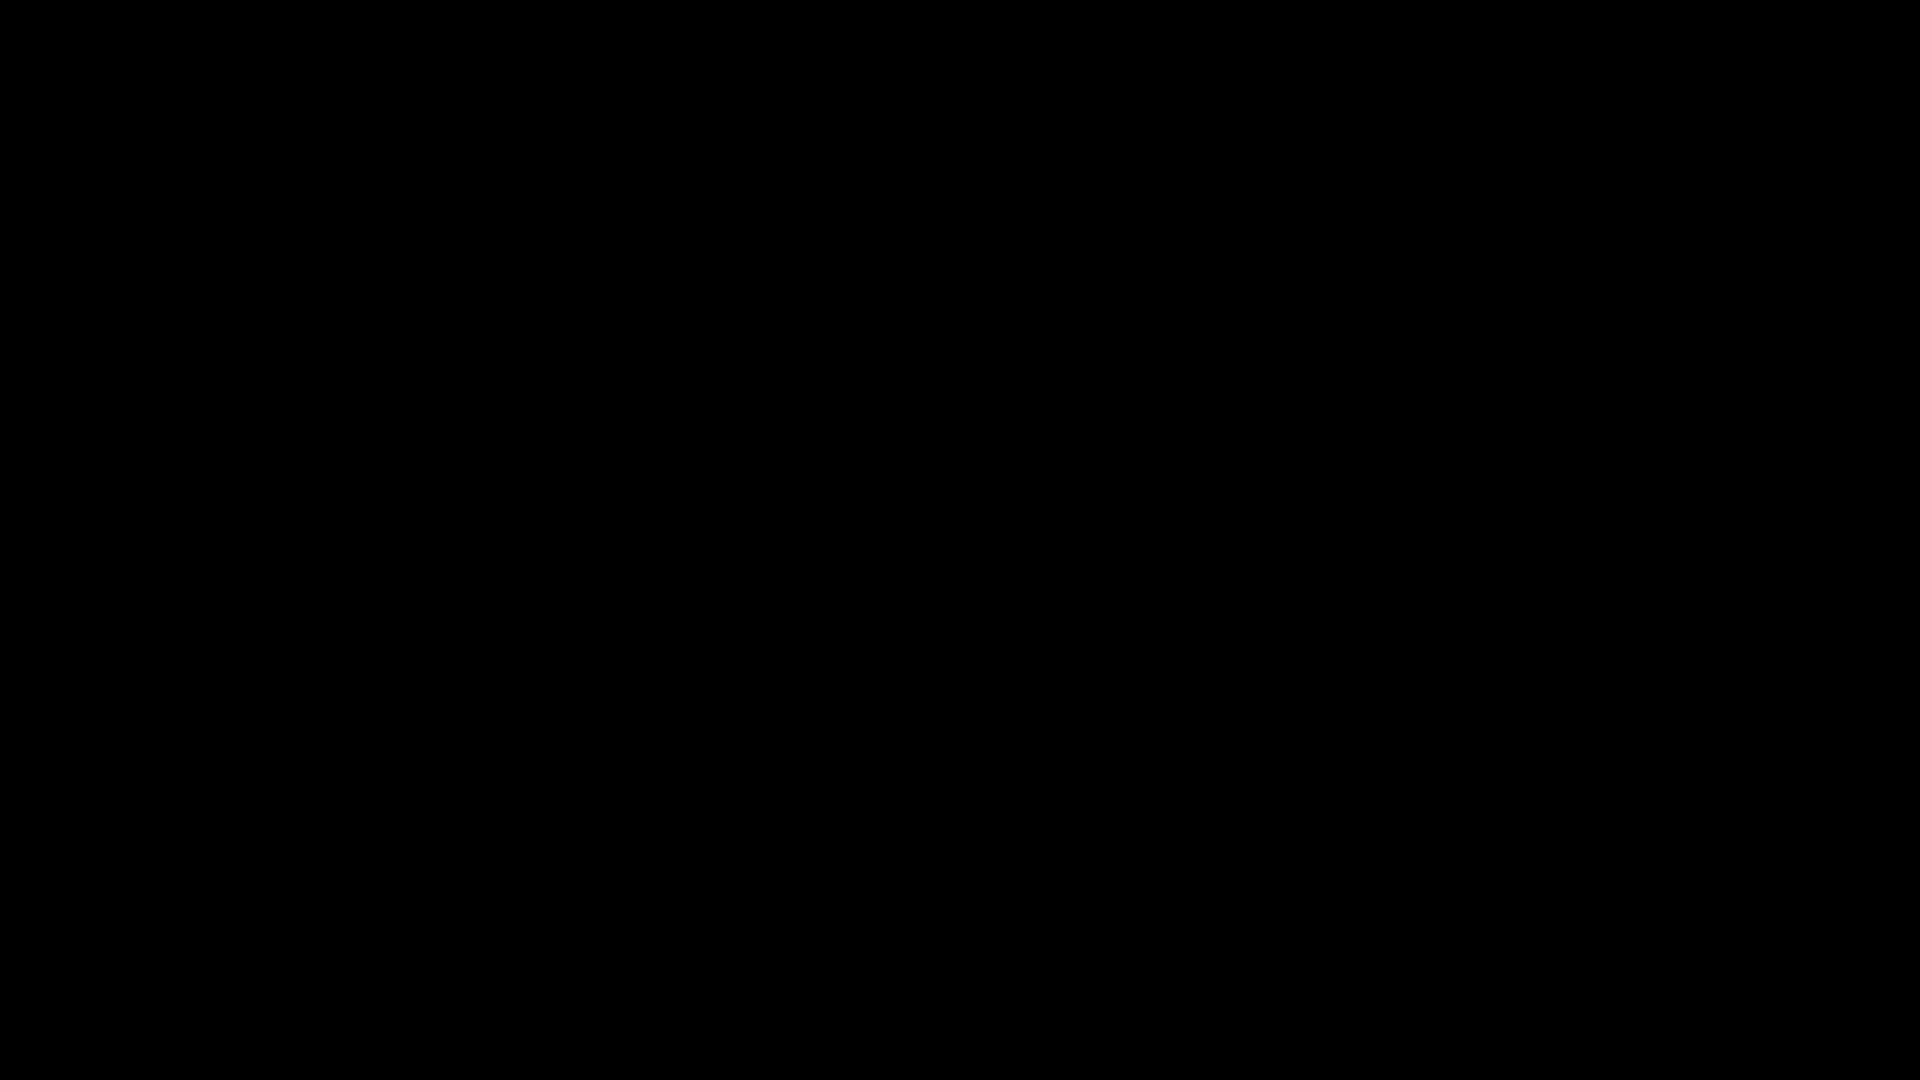
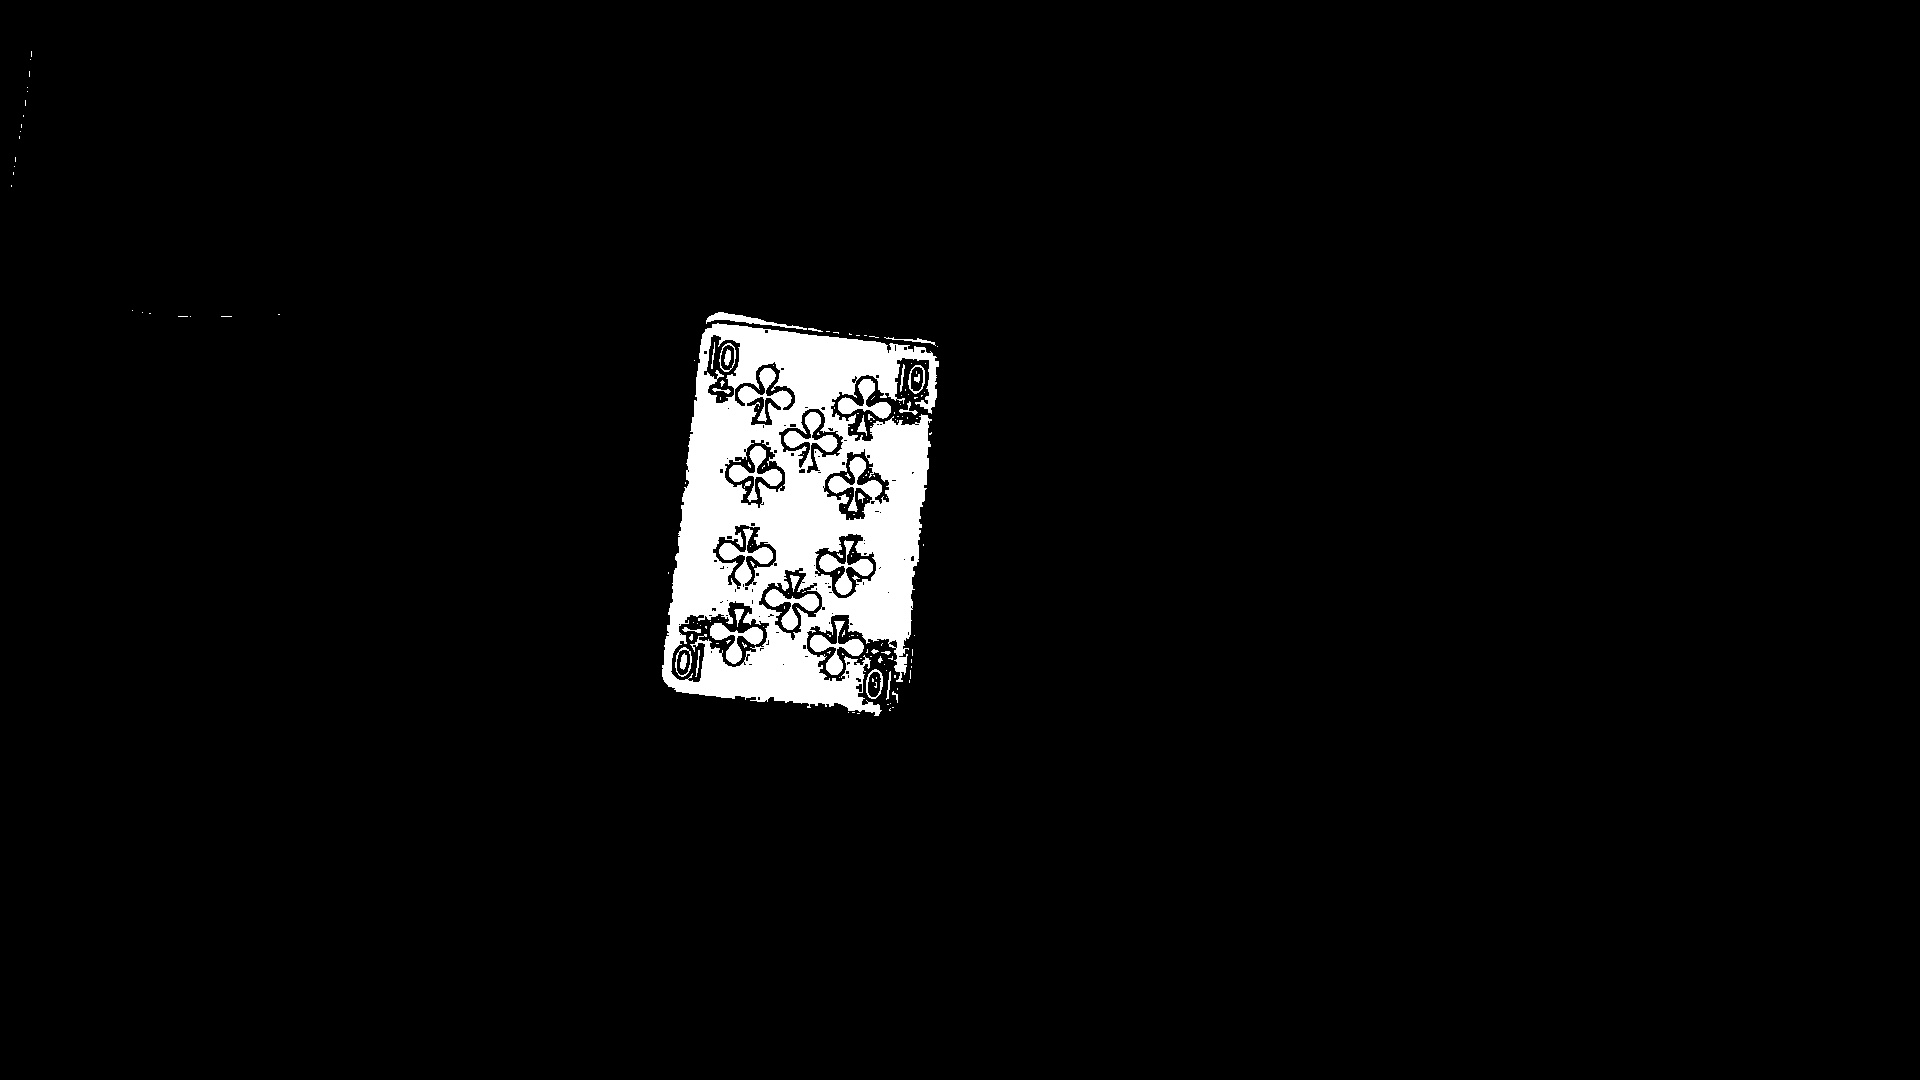
Ajout du k plus proche

Changed region(s): [[0.3438, 0.275, 0.5, 0.6722]]

diff --git a/src/camera/Image.java b/src/camera/Image.java
@@ -11,31 +11,43 @@ public class Image {
 	protected int width;
 	protected int height;
 	private IplImage rgbImage;
-	private ByteBuffer byteBuffer;
+	private ByteBuffer rgbByteBuffer;
 	
 	public Image(IplImage image){
 		
-		this.width = image.width();
-		this.height = image.height();
-		this.rgbImage = image;
-		this.byteBuffer = rgbImage.getByteBuffer();
+		width = image.width();
+		height = image.height();
+		rgbImage = image;
+		rgbByteBuffer = rgbImage.getByteBuffer();
+		
 	}
 	
 	public void setRgbByte(int index, byte byt){
 		
-		byteBuffer.put(index, byt);
+		rgbByteBuffer.put(index, byt);
 	}
 	
 	public ByteBuffer getRgbByteBuffer(){
 		
-		return byteBuffer;
+		return rgbByteBuffer;
 		
 	}
+	public int[] getRgbByte(int i, int j){
+		
+		int[] res = new int[3];
+		for(int k = 0; k <2; k++){
+			res[k] = (rgbByteBuffer.get(3*i + rgbImage.widthStep()*j+k) + 255) % 255;
+		}
+		return res;
+		
+	}
+
 
 	public IplImage getRgbImage() {
 		
 		return rgbImage;
 	}
+
 	
 	public int getWidth(){
 		
@@ -52,6 +64,79 @@ public class Image {
             cvSaveImage(fileName, rgbImage);
 		 }
 	}
+	
+	public int[] voisin(int i, int j, int[] pixel){ // retourne le pixel voisin de (i,j)
+		
+		int[] res = new int[3];
+		int distance = 0 , distanceMin = Integer.MAX_VALUE;
+		for(int n = Math.max(0, i-2); n <= Math.min(width-1, i+2); n++){
+			for(int p = Math.max(0, j-2); p <= Math.min(height-1,  j+2); p++){
+				int[] rgbByte = getRgbByte(n, p);
+				distance = 0;
+				for (int k = 0; k < 2; k ++){
+					distance = distance + Math.abs(rgbByte[k] - pixel[k]);
+				}
+				if (distance < distanceMin){
+					distanceMin = distance;
+					res = rgbByte;
+				}
+			}
+		}
+		
+		return res;
+	}
+	
+public BinaryImage difference(Image image){
+		
+		
+		int[][] diff = new int[height][width];
+		int[] voisin , pixel;
+		int distance = 0;
+		for (int i = 0 ; i< width; i++){
+			for(int j = 0; j < height; j++){
+				distance = 0;
+				pixel = getRgbByte(i,j);
+				voisin = image.voisin(i, j, pixel);
+				for (int k = 0; k < 2; k ++){
+					distance = distance + Math.abs(voisin[k] - pixel[k]);	
+				}	
+				
+				if (distance > 40)
+					diff[j][i] = 1;
+				else
+					diff[j][i] = 0 ;
+					}
+				}
+			
+		
+		BinaryImage bin = new BinaryImage(diff);
+		return bin ;
+		
+		
+	}
 
-
+public BinaryImage difference2(Image image) {
+	int[][] diff = new int[height][width];
+	int[] pixel2 , pixel;
+	int distance = 0;
+	for (int i = 0 ; i< width; i++){
+		for(int j = 0; j < height; j++){
+			distance = 0;
+			pixel = getRgbByte(i,j);
+			pixel2 = image.getRgbByte(i, j);
+			for (int k = 0; k < 2; k ++){
+				distance = distance + Math.abs(pixel2[k] - pixel[k]);	
+			}	
+			
+			if (distance > 40)
+				diff[j][i] = 1;
+			else
+				diff[j][i] = 0 ;
+				}
+			}
+		
+	
+	BinaryImage bin = new BinaryImage(diff);
+	return bin ;
+}
 }

diff --git a/src/camera/GrayImage.java b/src/camera/GrayImage.java
@@ -91,42 +91,19 @@ public class GrayImage extends Image{
 		return grayMatrix;
 	}
 	
-public GrayImage grayDifference(GrayImage grayImage2){
-		
-		
-		int[][] matrix2 = grayImage2.getMatrix();
-		int width = getWidth();
-		int height = getHeight();
-		int[][] diff = new int[height][width];
-		if (getWidth() == grayImage2.getWidth() && getHeight() == grayImage2.getHeight()){
-			for (int i = 0 ; i< width; i++){
-				for(int j = 0; j < height; j++){
-					if (Math.pow((grayMatrix[j][i] - matrix2[j][i]), 2) > 200){
-						
-						diff[j][i] = matrix2[j][i];
-					} else {
-						diff[j][i] = 0 ;
-					}
-				}
-			}
-		}
-		GrayImage gray = new GrayImage(diff);
-		return gray ;
-		
-		
-	}
+
 	
-	public BinaryImage binaryDifference(GrayImage grayImage2){
+	public BinaryImage binaryDifference(GrayImage grayImage){
 		
 		
-		int[][] matrix2 = grayImage2.getMatrix();
+		int[][] matrix = grayImage.getMatrix();
 		int width = getWidth();
 		int height = getHeight();
 		int[][] diff = new int[height][width];
-		if (getWidth() == grayImage2.getWidth() && getHeight() == grayImage2.getHeight()){
+		if (getWidth() == grayImage.getWidth() && getHeight() == grayImage.getHeight()){
 			for (int i = 0 ; i< width; i++){
 				for(int j = 0; j < height; j++){
-					if (Math.pow((grayMatrix[j][i] - matrix2[j][i]), 2) > 200){
+					if (Math.abs((grayMatrix[j][i] - matrix[j][i])) > 10){
 						
 						diff[j][i] = 1;
 					} else {
@@ -209,6 +186,53 @@ public BinaryImage test(){
 			}
 		}
 	
+	BinaryImage bin = new BinaryImage(diff);
+	return bin ;
+	
+}
+
+
+public int voisin(int i, int j, int pixel){ // retourne le pixel voisin de (i,j)
+	
+	int res =0;
+	int distance = 0 , distanceMin = Integer.MAX_VALUE;
+	for(int n = Math.max(0, i-1); n <= Math.min(width-1, i+1); n++){
+		for(int p = Math.max(0, j-1); p <= Math.min(height-1,  j+1); p++){
+			
+			distance = 0;
+			
+				distance = Math.abs(grayMatrix[j][i] - pixel);
+			
+			if (distance < distanceMin){
+				distanceMin = distance;
+				res = grayMatrix[j][i];
+			}
+		}
+	}
+	
+	return res;
+}
+
+public BinaryImage binaryDifference2(GrayImage grayImage) {
+	
+	int[][] matrix2 = grayImage.getMatrix();
+	int width = getWidth();
+	int height = getHeight();
+	int[][] diff = new int[height][width];
+	int voisin = 0 ;
+	if (getWidth() == grayImage.getWidth() && getHeight() == grayImage.getHeight()){
+		for (int i = 0 ; i< width; i++){
+			for(int j = 0; j < height; j++){
+				voisin = voisin(i, j, grayMatrix[j][i]);
+				if (Math.abs((grayMatrix[j][i] - voisin)) > 20){
+					
+					diff[j][i] = 1;
+				} else {
+					diff[j][i] = 0 ;
+				}
+			}
+		}
+	}
 	BinaryImage bin = new BinaryImage(diff);
 	return bin ;
 	

diff --git a/src/camera/Main.java b/src/camera/Main.java
@@ -21,36 +21,44 @@ public class Main {
 	public static void main(String[] args) throws Exception {
 		
 				
-		      	for(int i = 7 ; i<=10; i++){
+		   for(int i = 0 ; i<=1; i++){
 		      		Capture.captureFrame("data/capture"+i+".jpg");
 		      		Thread.sleep(5000);
 		      		
 		      	}
-		      	/*IplImage image1 = cvLoadImage("data/capture0.jpg");
-		      	IplImage image2 = cvLoadImage("data/capture1.jpg");
-		        GrayImage grayImage1 = new GrayImage(image1);
-		        GrayImage grayImage2 = new GrayImage(image2);
+		      	IplImage img1 = cvLoadImage("data/capture0.jpg");
+		      	IplImage img2 = cvLoadImage("data/capture1.jpg");
+		
+		      	Image image1 = new Image(img1);
+		      	Image image2 = new Image(img2);
+		        
+		      	GrayImage grayImage1 = new GrayImage(img1);
+		      	GrayImage grayImage2 = new GrayImage(img2);
 		       
-		        JFrame mainframe = new JFrame();
+		       /* JFrame mainframe = new JFrame();
 		        mainframe.setLayout(new GridLayout(1, 1));
 		        mainframe.setVisible(true);
 		        
 		        CanvasFrame rgb_frame = new CanvasFrame("AVI Playback Demo");        
 		        mainframe.getContentPane().add(rgb_frame.getCanvas() );
-		        rgb_frame.setVisible(false);
+		        rgb_frame.setVisible(false);*/
 		        
-		        rgb_frame.dispose();
-		        GrayImage bin = grayImage1.grayDifference(grayImage2);
-		        BinaryImage bin2 = grayImage2.test();
-		        cvSaveImage("data/bin4.jpg", bin.getGrayImage());
-		        cvSaveImage("data/gray0.jpg", grayImage1.getGrayImage());
-		        cvSaveImage("data/gray1.jpg", grayImage2.getGrayImage());
-		        int[][] mat = {{1,2,1},{2,4,1},{1,2,1}};
-		        GrayImage test = grayImage1.conv(mat);
-		        cvSaveImage("data/gray2.jpg", test.getGrayImage());
-		        //rgb_frame.showImage(bin.getBinaryImage());
-		        bin.saveToText("data/image.txt");
-		        cvSaveImage("data/test.jpg", bin2.getBinaryImage()); */
+		       // rgb_frame.dispose();
+		        BinaryImage binrgbvoisins = image1.difference(image2);
+		        BinaryImage bingrayvoisins = grayImage1.binaryDifference(grayImage2);
+		        BinaryImage binrgb = image1.difference2(image2);
+		        BinaryImage bingray = grayImage1.binaryDifference2(grayImage2);
+		        
+		        
+		    
+		        cvSaveImage("data/binrgbvoisins.jpg", binrgbvoisins.getBinaryImage());
+		        cvSaveImage("data/bingrayvoisins.jpg", bingrayvoisins.getBinaryImage());
+		        cvSaveImage("data/binrgb.jpg", binrgb.getBinaryImage());
+		        cvSaveImage("data/bingray.jpg", bingray.getBinaryImage());
+		     
+		    
+		
+		   
 	
 				
 				

diff --git a/src/camera/BinaryImage.java b/src/camera/BinaryImage.java
@@ -41,10 +41,8 @@ public class BinaryImage extends GrayImage {
 	public BinaryImage(GrayImage grayImage){
 		
 		super(grayImage.getRgbImage());
-		width = grayImage.getWidth();
-		height = grayImage.getHeight();
 		binaryMatrix = new int[height][width];
-		binaryImage = grayImage.getGrayImage();
+		binaryImage = cvCreateImage(cvSize(width, height), 8, 3);
 		binaryByteBuffer = binaryImage.getByteBuffer();
 		for(int i=0; i<width; i++){
 			for(int j=0; j<height; j++){

diff --git a/src/camera/exo1.java b/src/camera/exo1.java
@@ -34,7 +34,7 @@ public class exo1 {
 
         /*creation de l'objet d'acquisition de trames video à partir du fichier indiqué comme paramêtre du programme*/
         OpenCVFrameGrabber grabber = null;
-        grabber = new OpenCVFrameGrabber(0);
+        grabber = new OpenCVFrameGrabber(1);
 
         grabber.start();
 
